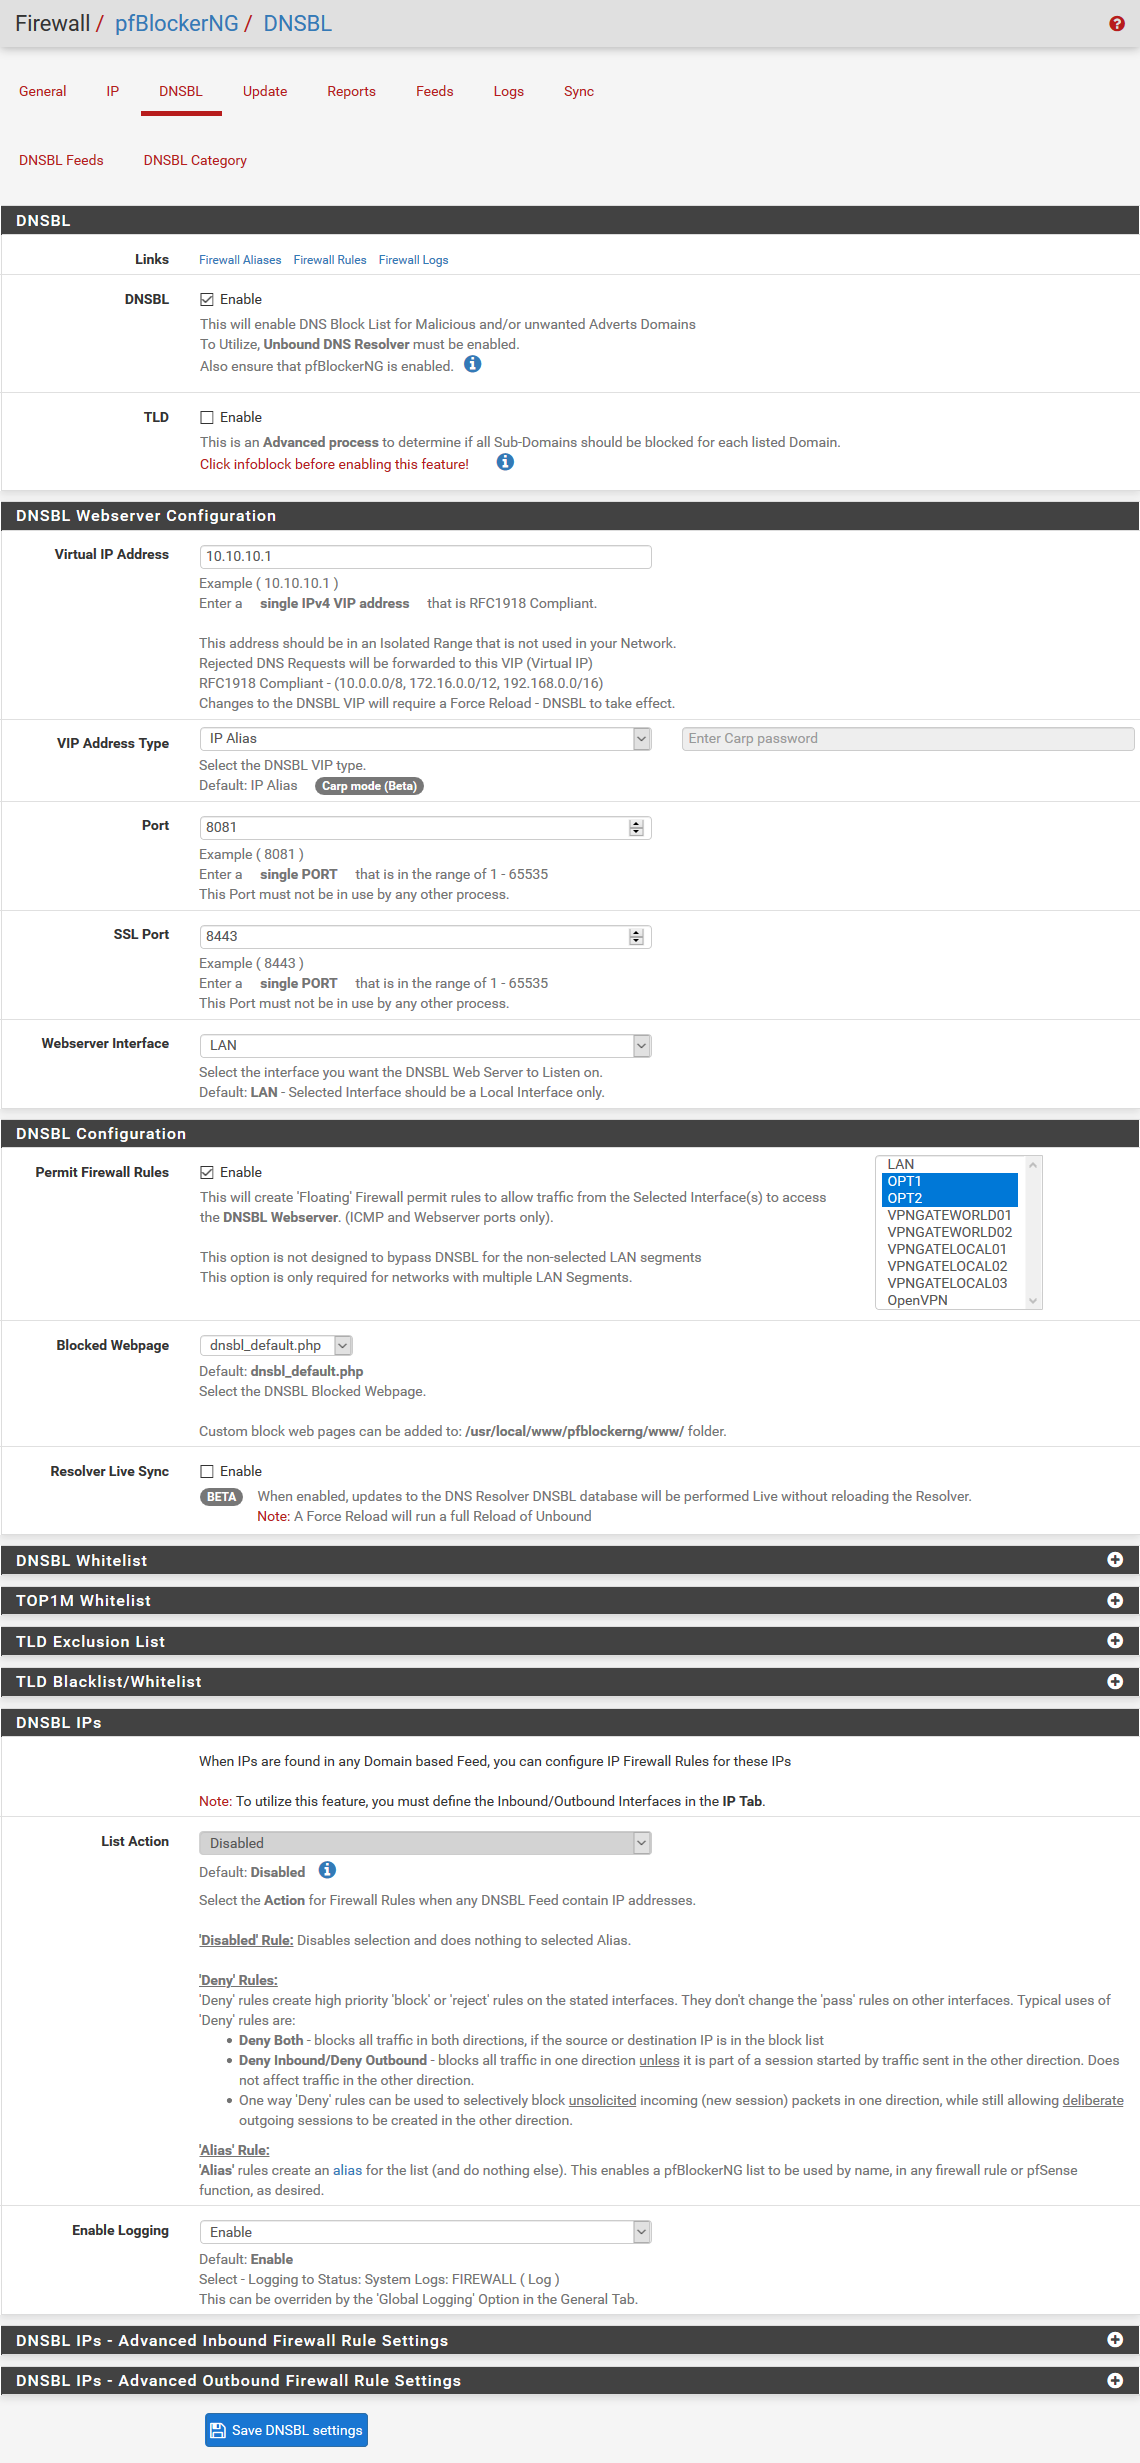
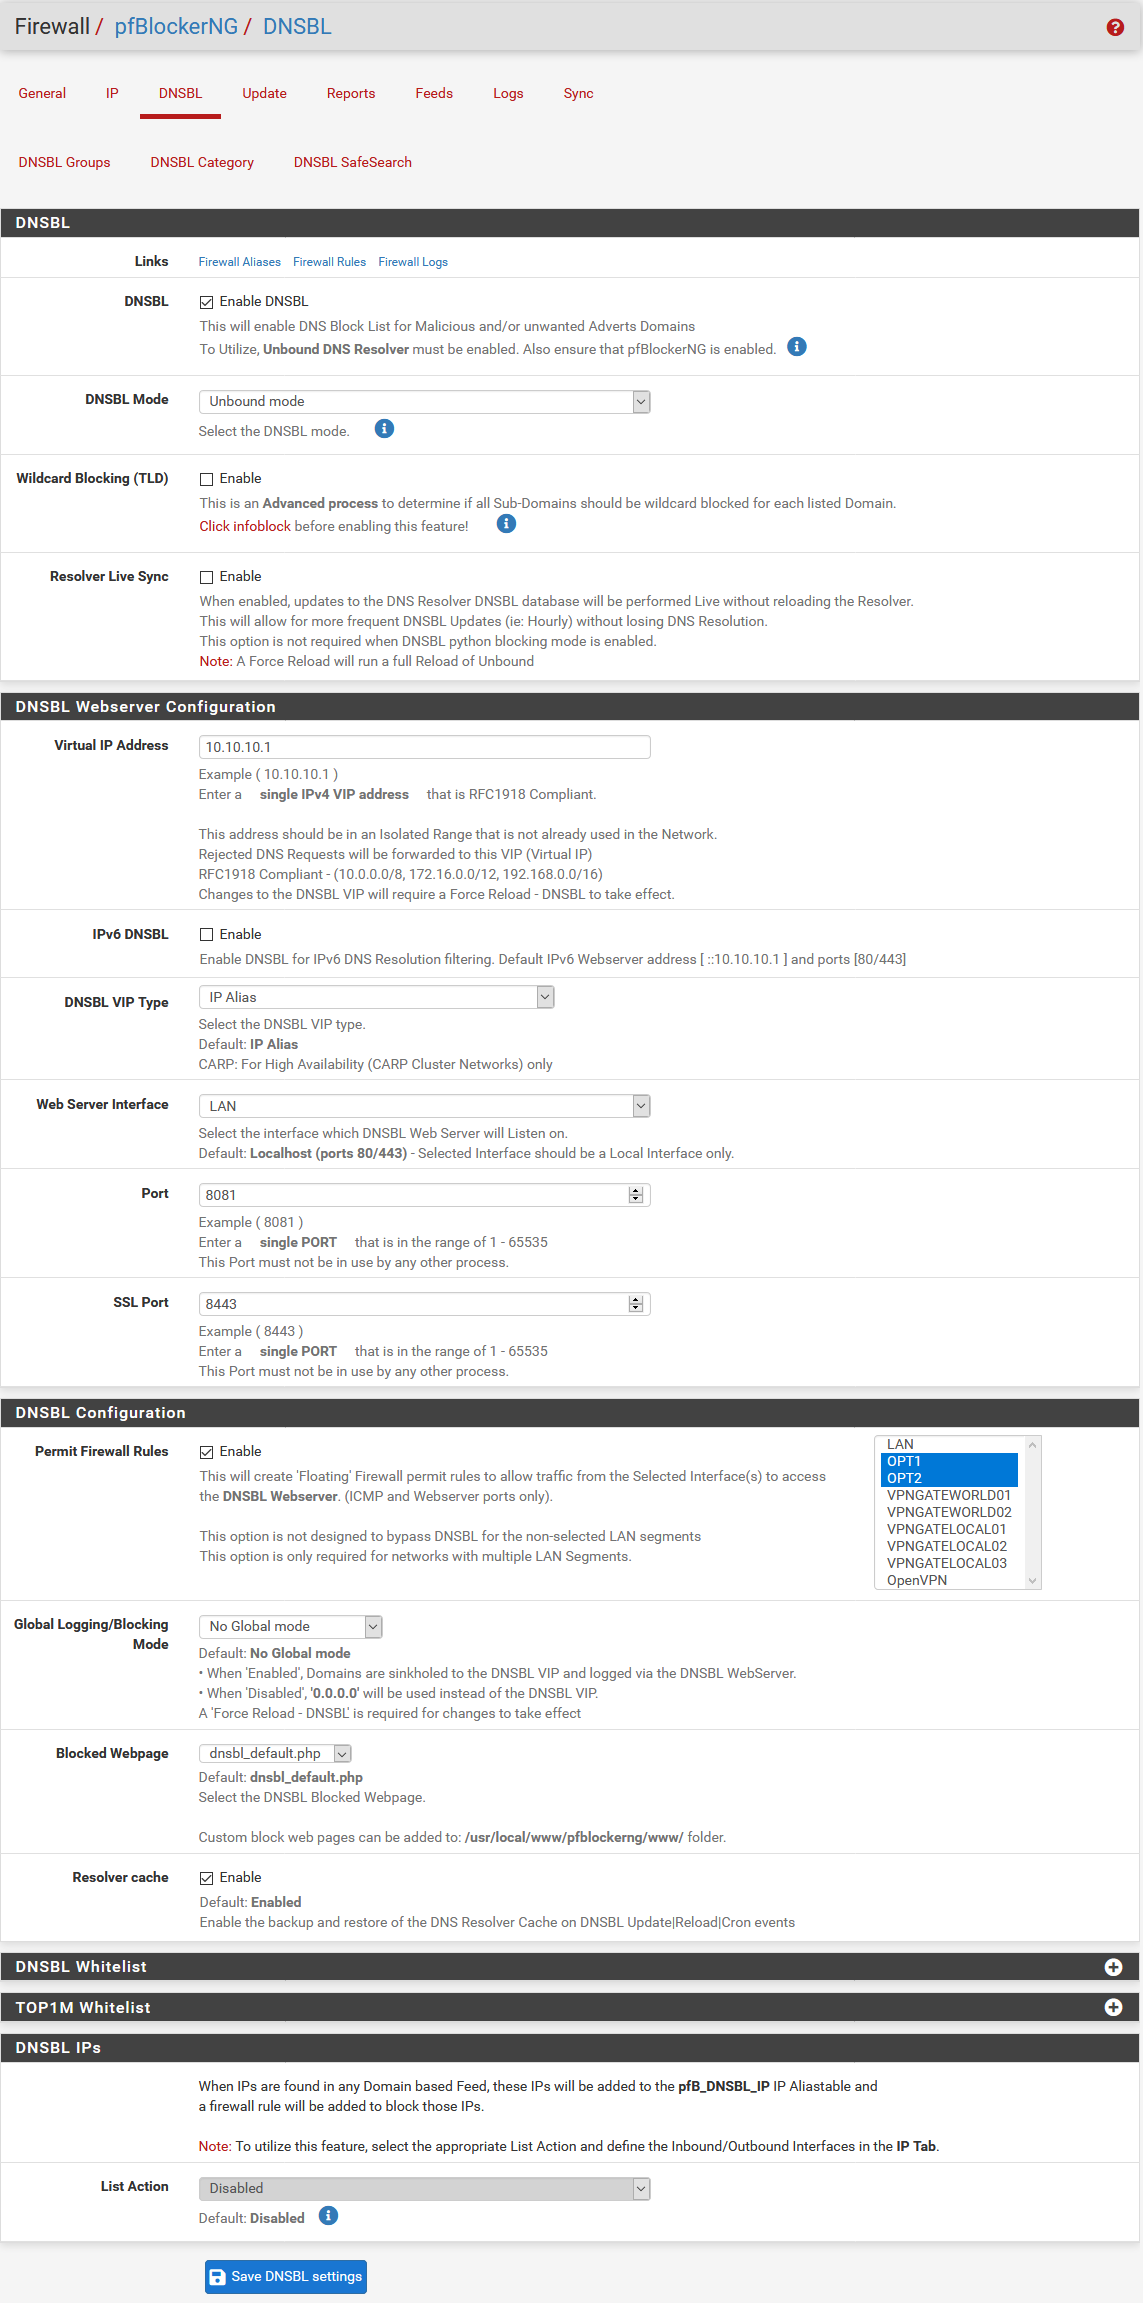
Readme updates

diff --git a/README.md b/README.md
@@ -1,40 +1,41 @@
-# pfSense-pfBlockerNG
-pfBlockerNG can add other security enhancements such as blocking known bad IP addresses with blocklists. For example, getting rid of adverts and pop-ups from websites. If you don’t already have a blocklist functionality in place on your pfSense (such as PiHole), I would strongly suggest adding pfBlockerNG Devel to your new OpenVPN Gateways (VPNGGATEWORLD and VPNGATELOCAL).
+<h1>pfSense-pfBlockerNG</h1>
+
+pfBlockerNG is a pfSense package for extending the standard firewall’s capabilities beyond the traditional stateful L2/L3/L4 firewall.
+
+pfBlockerNG provides pfSense with the ability for the firewall to make allow/deny decisions based on items such as the geolocation of an IP address, the domain name of a resource, or the Alexa ratings of particular websites. 
+
+This guide sets up pfBlockerNG for all OpenVPN Gateways (VPNGGATEWORLD and VPNGATELOCAL). 
+
+If you don’t already have an internal LAN network block-list functionality in place I would strongly suggest installing PiHole.
+
+**Prerequisites**
 
 Network prerequisites are:
 - [x] Layer 2 Network Switches
 - [x] Network Gateway is `192.168.1.5`
-- [x] Network DNS server is `192.168.1.5` (Note: your Gateway hardware should enable you to a configure DNS server(s), like a UniFi USG Gateway, so set the following: primary DNS `192.168.1.254` which will be your PiHole server IP address; and, secondary DNS `1.1.1.1` which is a backup Cloudfare DNS server in the event your PiHole server 192.168.1.254 fails or os down)
+- [x] Network DNS server is `192.168.1.5` (Note: your Gateway hardware should enable you to configure DNS server(s), like a UniFi USG Gateway, so set the following: primary DNS `192.168.1.254` which will be your PiHole server IP address; and, secondary DNS `1.1.1.1` which is a backup Cloudfare DNS server in the event your PiHole server 192.168.1.254 fails or os down)
 - [x] Network DHCP server is `192.168.1.5`
 
 Other Prerequisites are:
-- [x] Proxmox node fully configured as per [PROXMOX-NODE BUILDING](https://github.com/ahuacate/proxmox-node/blob/master/README.md#proxmox-node-building)
+- [x] Proxmox node fully configured as per [PVE Host Setup](https://github.com/ahuacate/proxmox-node/blob/master/README.md#proxmox-node-building)
 - [x] pfSense is fully configured as per [pfSense - Setup](https://github.com/ahuacate/pfsense-setup/blob/master/README.md#pfsense---setup)
 
-Tasks to be performed are:
-- [1.00 Install pfBlockerNG Package](#100-install-pfblockerng-package)
-	- [1.01 MaxMind GeoIP Registration](#101-maxmind-geoip-registration)
-- [2.00 Configure General Settings](#200-configure-general-settings)
-- [3.00 Configure IP Settings](#300-configure-ip-settings)
-- [4.00 Configure DNSBL Settings](#400-configure-dnsbl-settings)
-	- [4.01 Enable DNSBL](#401-enable-dnsbl)
-	- [4.02 Configure DNSBL feeds](#402-configure-dnsbl-feeds)
-	- [4.03 Force DNSBL Feed Updates](#403-force-dnsbl-feed-updates)
-- [5.00 Check if pfBlockerNG is working](#500-check-if-pfblockerng-is-working)
-- [00.00 Patches and Fixes](#0000-patches-and-fixes)
+<hr>
+
+<h4>Table of Contents</h4>
 
 
-## 1.00 Install pfBlockerNG Package
+# Install pfBlockerNG Package
 In the pfSense WebGUI go to `System` > `Package Manager` > `Available Packages` and type ‘pfblocker’ into the search criteria and then click `Search`.
 
 Make sure you click `+ Install` on the version with ‘-devel’ (i.e pfBlockerNG-devel) at the end of it, and then `Confirm` on the next page. Installation may take a short while as it downloads and updates certain packages.
 
-### 1.01 MaxMind GeoIP Registration
+## MaxMind GeoIP Registration
 To utilize the MaxMind GeoIP functionality, you must first register for a free MaxMind user account. Visit the following [Link](https://www.maxmind.com/en/geolite2/signup) to Register for a free MaxMind user account. Utilize the GeoIP Update version 3.1.1 or newer registration option.
 
 In the `License key description` field name the license key "pfBlocker". Utilize the GeoIP Update version 3.1.1 or newer registration option. Confirm. Copy/paste the new "License Key" into into a safe file for use later in the pfBlockerNG setup (Note, you must immediately copy the key on the page to get the full key length).
 
-## 2.00 Configure General Settings
+# Configure General Settings
 At this point, you have already installed the package. Next, you will need to enable it from pfSense WebGUI `Firewall` > `pfBlockerNG` and the option to exit out of the wizard. A configuration page should appear, Click on the `General Tab`, and fill out the necessary fields as follows:
 
 | General Settings | Value | Value | Value | Value | Notes
@@ -45,7 +46,7 @@ At this point, you have already installed the package. Next, you will need to en
 
 Then Click `Save` at the bottom of the page.
 
-## 3.00 Configure IP Settings
+# Configure IP Settings
 Go to pfSense WebGUI `Firewall` > `pfBlockerNG` > `IP Tab` and fill out the necessary fields as follows. Whats NOT shown in the below table leave as default.
 
 | IP Configuration | Value | Other Values | Notes
@@ -55,18 +56,19 @@ Go to pfSense WebGUI `Firewall` > `pfBlockerNG` > `IP Tab` and fill out the nece
 | Suppression | `☑` Enable ||*Check*
 | Global Logging | `☐` ||*Uncheck*
 | Placeholder IP Address | 127.1.7.7||*Leave Default*
+| ASN Reporting | `Disabled`
 | **MaxMind GeoIP configuration**
 | MaxMind License Key | `Insert Maxmind Key` || *See instructions at 1.01*
 | MaxMind Localized Language | English||*Leave Default*
 | MaxMind CSV Updates | `☐` Check to disable MaxMind CSV updates ||*Uncheck*
 | **IP Interface/Rules Configuration**
 | Inbound Firewall Rules | `VPNGATEWORLD01` || *Select ONLY VPNGATEWORLD and VPNGATELOCAL*
-|| `VPNGATEWORLD02`
+|| `VPNGATEWORLD02` | Block
 || `VPNGATELOCAL01`
 || `VPNGATELOCAL02`
 || `VPNGATELOCAL03`
 | Outbound Firewall Rules | `VPNGATEWORLD01` || *Select ONLY VPNGATEWORLD and VPNGATELOCAL*
-|| `VPNGATEWORLD02`
+|| `VPNGATEWORLD02` | Reject |
 || `VPNGATELOCAL01`
 || `VPNGATELOCAL02`
 || `VPNGATELOCAL03`
@@ -77,46 +79,47 @@ Go to pfSense WebGUI `Firewall` > `pfBlockerNG` > `IP Tab` and fill out the nece
 
 And click `Save IP Settings`
 
-![alt text](https://raw.githubusercontent.com/ahuacate/pfsense-pfblockerng/master/images/pfblockerng_ip_01.png)
+![alt text](./images/pfblockerng_ip_01.png)
 
-## 4.00 Configure DNSBL Settings
-Because we have multiple internal interfaces, we are using a Qotom Mini PC Q500G6-S05 with 6x Gigabit NICs, you would want to protect them with DNSBL, so you will need to pay attention to the ‘Permit Firewall Rules’ section.
+# Configure DNSBL Settings
+If you have multiple internal interfaces (2x + Gigabit NICs) you would want to protect them with DNSBL, so you will need to pay attention to the ‘Permit Firewall Rules’ section.
 
-### 4.01 Enable DNSBL
+## Enable DNSBL
 
-First, place a checkmark in the ‘Enable’ box of `Permit Firewall Rules`. Then, select the various interfaces (to the right, in a box) by holding down the ‘Ctrl’ key and left-click selecting the interfaces you choose to protect with pfBlockerNG (i.e OPT1, OPT2).
+If your pfSense OS has plenty of memory enable, 4Gb or more, you may enable TLD. If not, DO NOT enable TLD. 
 
-Note, don’t forget to Click the `Save DNSBL settings` at the bottom of the page.
+So what is TLD? Normally, DNSBL (and other DNS blackhole software) block the domains specified in the feeds. What TLD does differently is it will block the domain specified in addition to all of a domain’s subdomains. As a result, a intrusive domain can’t circumvent the blacklist by creating a random subdomain name such as abcd1234.zuckermine.com (if zuckermine.com was in a DNSBL feed). If you have the RAM enable it - although I choose not to.
 
-Also if your pfSense OS has plenty of memory enable, 4Gb or more, you may use TLD. Normally, DNSBL (and other DNS blackhole software) block the domains specified in the feeds and that’s that. What TLD does differently is it will block the domain specified in addition to all of a domain’s subdomains. As a result, a instrusive domain can’t circumvent the blacklist by creating a random subdomain name such as abcd1234.zuckermine.com (if zuckermine.com was in a DNSBL feed). If you have the RAM enable it - although I choose not too.
-
-Next go to pfSense WebGUI `Firewall` > `pfBlockerNG` > `DNSBL Tab` and fill out the necessary fields as follows. Whats NOT shown in the below table leave as default. 
+Next, go to pfSense WebGUI `Firewall` > `pfBlockerNG` > `DNSBL Tab` and fill out the necessary fields as follows. What's NOT shown in the below table leave as default. 
 
 | DNSBL | Value | Other Values | Notes
 | :---  | :--- | :--- | :---
-| DNSBL | `☑` Enable | 
-| TLD | `☐` Enable | | *Note: You need at least 3Gb of RAM for this feature*
+| DNSBL | `☑` Enable 
+| DNSBL Mode | `Unbound mode`
+| Wildcard Blocking (TLD) | `☐` Enable | | *Note: You need at least 4Gb of RAM for this feature*
+| Resolver Live Sync | `☐` Enable | 
 | **DNSBL Webserver Configuration**
-| Virtual IP Address | 10.10.10.1 || *Leave Default*
-| VIP Address Type | IP Alias | Leave Blank (Enter Carp Password) | *Leave Default*
-| Port | 8081 || *Leave Default*
-| SSL Port | 8443 || *Leave Default*
-| Webserver Interface | LAN || *Leave Default*
+| Virtual IP Address | `10.10.10.1`
+| IPv6 DNSBL | `☐` Enable
+| DNSBL VIP Type | `IP Alias` 
+| Webserver Interface | `LAN`
+| Port | 8081
+| SSL Port | 8443
 | **DNSBL Configuration**
 | Permit Firewall Rules | `☑` Enable |`OPT1` | *Select ONLY OPT1 and OPT2 - Use the Ctrl key to toggle selection*
 ||| `OPT2`
-| Blocked Webpage | dnsbl_default.php || *Leave Default*
-| Resolver Live Sync | `☐` Enable || *Uncheck*
+| Global Logging/Blocking Mode | `No Global mode`
+| Blocked Webpage | dnsbl_default.php
+| Resolver cache | `☑` Enable 
 | **DNSBL IPs**
 | List Action | `Disabled`
-| Enable Logging | `Enable`
 
 Now click `Save DNSBL settings` at the bottom of the page.
 
-![alt text](https://raw.githubusercontent.com/ahuacate/pfsense-pfblockerng/master/images/pfblockerng_dnsbl_01.png)
+![alt text](./images/pfblockerng_dnsbl_01.png)
 
-### 4.02 Configure DNSBL feeds
-Using the pfSense WebGUI  `Firewall` > `pfBlockerNG` > `Feeds Tab` (not DNSBL Feeds) at the top. Here you will see all of the pre-configured feeds for the IPv4, IPv6, and DNSBL categories.
+## Configure DNSBL feeds
+Using the pfSense WebGUI  `Firewall` > `pfBlockerNG` > `Feeds Tab` (not DNSBL Feeds) at the top, you will see all of the pre-configured feeds for the IPv4, IPv6, and DNSBL categories.
 
 Scroll down to the `DNSBL Category` header then to the Alias/Group labeled `ADs`. Click the blue colour **`+`** next to the `ADs` header (column should be all ADs) to add all the feeds related to ADs category. Note, if you instead clicked the `+` to the far right of each line, you will instead only add that individual feed - this is not what we want.
 
@@ -196,7 +199,7 @@ After adding all of the above go to the `Firewall` > `pfBlockerNG` > `DNSBL` > `
 | Cryptojackers | Cryptojackers - Collection | Unbound | Once a day | Enabled
 | Easylist | EasyList Feeds | Unbound | Every 4 hours | Enabled
 
-### 4.03 Force DNSBL Feed Updates
+## Force DNSBL Feed Updates
 You need to force a update to to `Reload` DNSBL new or changed settings. You must do this to check if your pfBlockerNG is working.
 
 Next go to pfSense WebGUI `Firewall` > `pfBlockerNG` > `Update Tab` and fill out the necessary fields as follows. Whats NOT shown in the below table leave as default. 
@@ -209,7 +212,7 @@ Next go to pfSense WebGUI `Firewall` > `pfBlockerNG` > `Update Tab` and fill out
 
 Now Click the `RUN` below the options and you should see the Logs being created on the page. It may take a while. Be patient.
 
-## 5.00 Check if pfBlockerNG is working
+# Check if pfBlockerNG is working
 First connect a device (i.e mobile, tablet etc) to either *.vpngate-local or *vpngate-world network. Go and browse a few websites with advertising - for example, a news website. Then go to pfSense WebGUI `Firewall` > `pfBlockerNG` > `Reports` > `Alerts Tab` and you should see the DNSBL entry being populated with intercepted data. 
 
 | Date | IF | Source | Domain/Referer/URI/Agent | Feed
@@ -222,7 +225,7 @@ First connect a device (i.e mobile, tablet etc) to either *.vpngate-local or *vp
 
 If you see nothing in the DNSBL section then pfBlockerNG is NOT working. Check your configurations for DNS resolve. Remember after any edits or changes always perform a pfBlockerNG Update by following the procedures in **4.03 Force DNSBL Feed Updates**.
 
-If I am left scratching my heading wondering what I've done wrong I find deleting and recreating the pfSense firewall floating rules often fixes things. My procedure is as follows:
+If I am left scratching my heading wondering what I've done wrong, I find deleting and recreating the pfSense firewall floating rules fixes things. My procedure is as follows:
 *  Step 1: Go to pfSense WebGUI `Firewall` > `pfBlockerNG` > `General Tab` and disable pfBlockerNG. Click `Save` at the bottom of the page.
 *  Step 2: Next go to pfSense WebGUI `Firewall` > `pfBlockerNG` > `DNSBL Tab` and disable DNSBL. Click `Save` at the bottom of the page.
 *  Step 3: Next go to pfSense WebGUI `Firewall` > `Rules` > `Floating Tab` and delete all 3 rules and click `Save`.
@@ -232,6 +235,6 @@ If I am left scratching my heading wondering what I've done wrong I find deletin
 
 Another MUST DO step is the creation of DNS Accept and Block Firewall rules for your network interface(s) shown [HERE](https://github.com/ahuacate/pfsense-setup/blob/master/README.md#905-dns-allow-and-block-rules-on-opt1---vpngate-world).
 
----
+<hr>
 
-## 00.00 Patches and Fixes
+# Patches and Fixes
